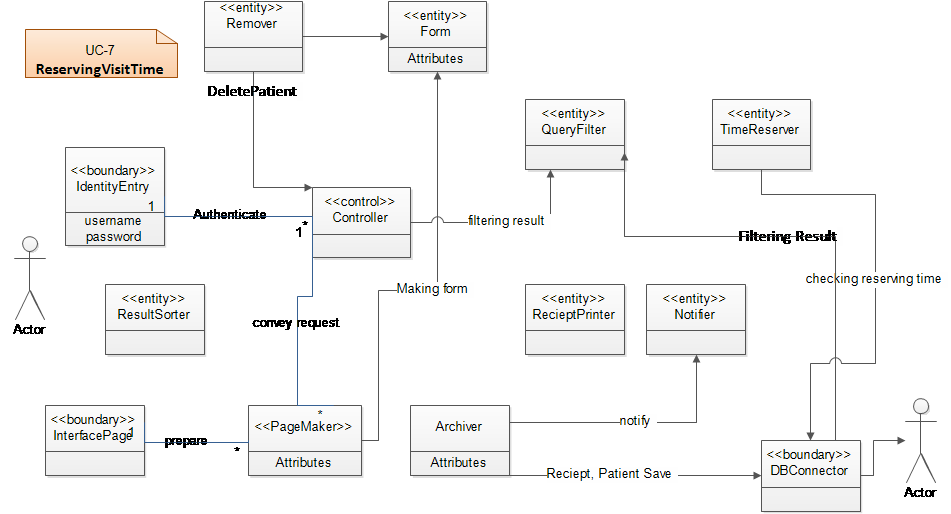
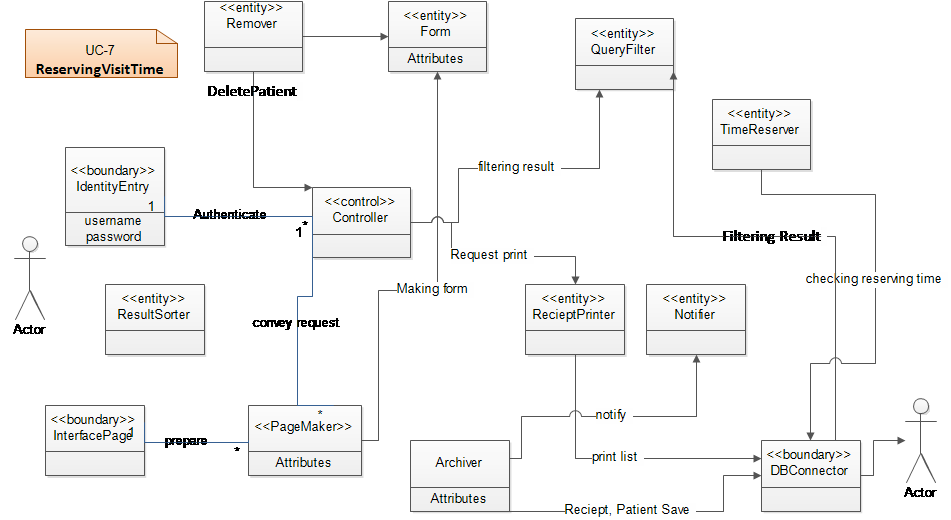
domain model problem was corrected

diff --git a/docs/Domain Model, Responsibility.md b/docs/Domain Model, Responsibility.md
@@ -34,7 +34,7 @@ checks for validity (from UC-1, step 1) 								  | D  |UserAuthenticator |
 |Rs13. Make receptionist able to delete receipt form database (from UC-3, step 1)	| D	| Remover|  
 
 
-|						   |	**Responsibility for UC-7**				  |				   	        |    
+|						   	**Responsibility for UC-8**				      |		 | 		   	        |    
 |:------------------------------------------------------------------------|:----:|------------------|   
 |**Responsibility Description**                               				  | **Type** |**Concept Name**      |  
 |Rs1. Coordinates actions of concepts associated with the ReceiptPatient&Receipt use case and delegate the work to other concepts.|	D |Controller|  
@@ -50,6 +50,20 @@ checks for validity (from UC-1, step 1) 								  | D  |UserAuthenticator |
 |Rs11.delete the request from database and delete tracking number (from UC-5)| D |Editor | 
 |Rs12. Make possible for users to sort the rendered list by identified field of records(from UC-6)| D | ResultSorter |  
 
+
+
+|						   	**Responsibility for UC-2**				      |		 |		   	        |    
+|:------------------------------------------------------------------------|:----:|------------------|   
+|**Responsibility Description**                               			  | **Type** |**Concept Name** |  
+|Page make should have made the page for save                             | K | Page maker |  
+|The result should be get it from the different (UCS)                     | D | Getter  |  
+|The parameter should be added to database                                | D | Saver |  
+|The page shows the content of the page                                   | k | Interface page |  
+|The page that shows the content to be saved                              | K | Interface page |  
+|The interface page that get parameters or edits                          | K | Interface page |  
+|The saver will right to database.                                        | D | Writer to dbs  |  
+|The holder for the contents                                              | K | Holder  |   
+|Controller where to write the contents	                                  | D | controller  |
 
 
 
